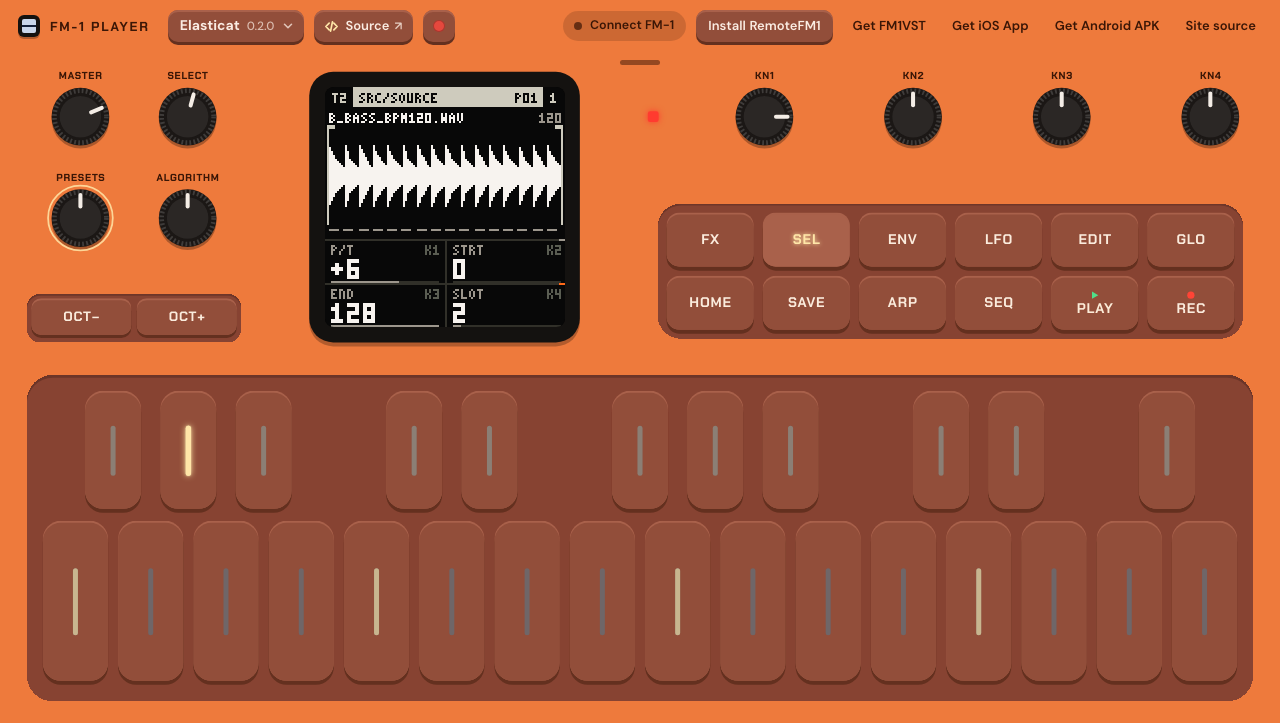
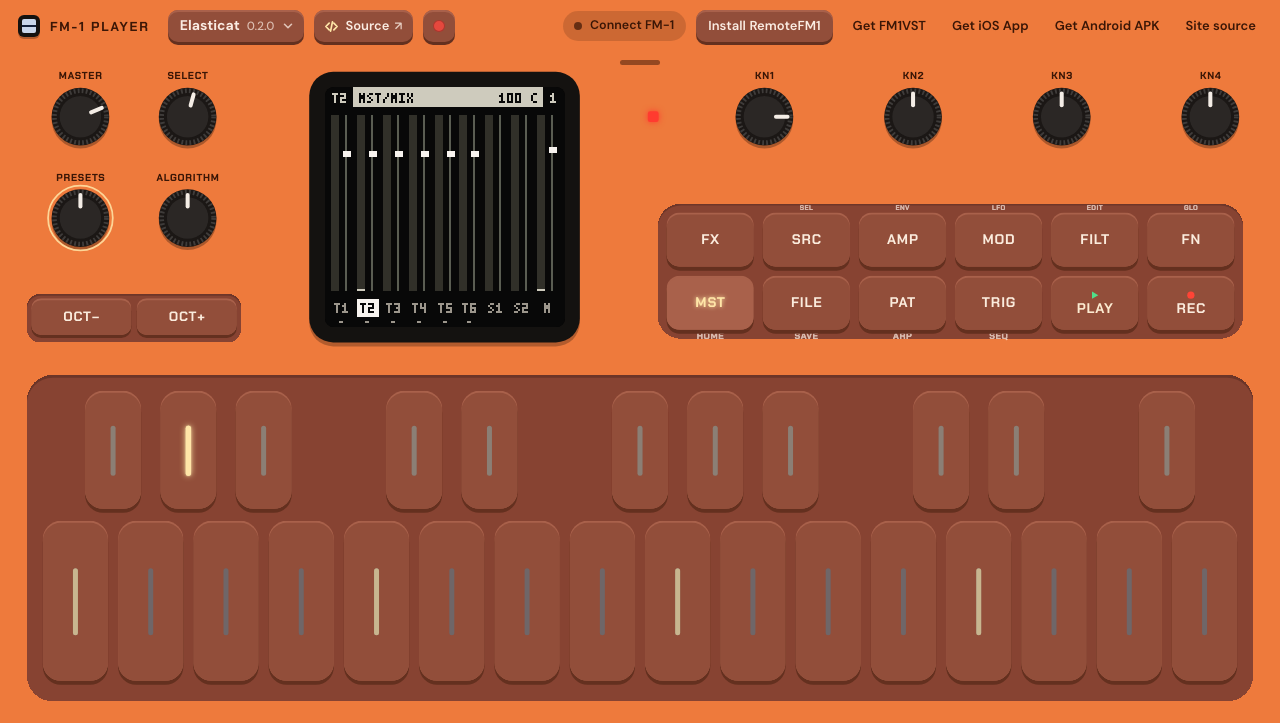
FN is GLO, MST is HOME (owner); the buttons carry Elasticat's own names
The shift key moves from HOME to GLO and the MASTER category from GLO to HOME (EC_B_FN = EC_B_GLO). The
descriptor's button_names are Elasticat's (FX SRC AMP MOD FILT FN MST FILE PAT TRIG PLAY REC OCT- OCT+), so
RemoteFM1 hosts draw them on the panel. Demo scripts and the web e2e follow (14/14 passed).

diff --git a/src/app/ec_app.c b/src/app/ec_app.c
@@ -938,7 +938,7 @@ static void upper_up(int i)
 }
 
 /* ------------------------------------------------------------------------------------------- buttons --- */
-static const int CAT_OF[EC_NB] = {EC_CAT_FX, EC_CAT_SRC, EC_CAT_AMP, EC_CAT_MOD, EC_CAT_FILT, EC_CAT_MASTER, -1,
+static const int CAT_OF[EC_NB] = {EC_CAT_FX, EC_CAT_SRC, EC_CAT_AMP, EC_CAT_MOD, EC_CAT_FILT, -1, EC_CAT_MASTER,
                                   EC_CAT_FILE, EC_CAT_PAT, EC_CAT_TRIG, -1, -1, -1, -1};
 
 static void button_down(int b)
@@ -955,7 +955,7 @@ static void button_down(int b)
         return;
     }
     switch (b) {
-    case EC_B_HOME: A->fn = 1; break;
+    case EC_B_FN: A->fn = 1; break;
     case EC_B_SEL:
         A->sel_held = 1;
         A->sel_used = 0;
@@ -1006,7 +1006,7 @@ static void button_up(int b)
         A->redraw = 1;
         return;
     }
-    if (b == EC_B_HOME)
+    if (b == EC_B_FN)
         A->fn = 0;
     else if (b == EC_B_SEL) {
         A->sel_held = 0;
@@ -1275,7 +1275,7 @@ static void leds(void)
         if (CAT_OF[b] >= 0)
             ec_plat_led_button(b, CAT_OF[b] == A->cat ? (A->settings && blink(250) ? EC_LED_MID : EC_LED_LIT)
                                                       : EC_LED_FAINT);
-    ec_plat_led_button(EC_B_HOME, A->fn ? EC_LED_LIT : EC_LED_FAINT);
+    ec_plat_led_button(EC_B_FN, A->fn ? EC_LED_LIT : EC_LED_FAINT);
     ec_plat_led_button(EC_B_PLAY, A->seq.playing ? EC_LED_LIT : A->seq.paused ? (blink(400) ? EC_LED_MID : EC_LED_DIM)
                                                                               : EC_LED_DIM);
     ec_plat_led_play_green(A->seq.playing ? EC_LED_LIT : EC_LED_OFF);

diff --git a/src/plat/ec_plat.h b/src/plat/ec_plat.h
@@ -23,8 +23,8 @@ enum {
     EC_B_ENV,     /* AMP */
     EC_B_LFO,     /* MOD */
     EC_B_EDIT,    /* FILT */
-    EC_B_GLO,     /* MASTER */
-    EC_B_HOME,    /* FN (shift) */
+    EC_B_GLO,     /* FN (shift): EC_B_FN */
+    EC_B_HOME,    /* MASTER */
     EC_B_SAVE,    /* FILE */
     EC_B_ARP,     /* PAT */
     EC_B_SEQ,     /* TRIG */
@@ -34,6 +34,7 @@ enum {
     EC_B_OCTUP,   /* key mode + */
     EC_NB
 };
+#define EC_B_FN EC_B_GLO   /* the shift key (owner, 2026-11-02: GLO, not HOME) */
 /* ---- knobs by role (FM1P_E_* order); MASTER is the absolute pot (ec_input_t.master) ---- */
 enum { EC_E_SELECT, EC_E_ALGO, EC_E_PRESETS, EC_E_K1, EC_E_K2, EC_E_K3, EC_E_K4, EC_NE };
 

diff --git a/src/app/ec_e5.c b/src/app/ec_e5.c
@@ -492,10 +492,10 @@ static int scope_op(int b)
 /* ------------------------------------------------------------------------------------------- buttons --- */
 int ec_e5_button_down(int b)
 {
-    if (b != EC_B_HOME)
+    if (b != EC_B_FN)
         E->home_clean = 0;
     if (E->naming) {
-        if (b == EC_B_HOME) {
+        if (b == EC_B_FN) {
             E->home_clean = 1;
             return 0;
         }
@@ -541,7 +541,7 @@ int ec_e5_button_down(int b)
 
 int ec_e5_button_up(int b)
 {
-    if (b == EC_B_HOME && E->naming && E->home_clean) {
+    if (b == EC_B_FN && E->naming && E->home_clean) {
         E->home_clean = 0;
         name_close(0);
         return 0;

diff --git a/src/plat/ec_core.c b/src/plat/ec_core.c
@@ -362,8 +362,8 @@ static fm1core_t CORE = {
     .license = FM1CORE_LICENSE,
     .gated = EC_GATED,
     .flash_size = EC_FLASH_SIZE,
-    /* the printed labels: Elasticat's own names are in ec_plat.h (FX, SRC, AMP, MOD, FILT, MST, FN, FILE, PAT, TRIG) */
-    .button_names = {"FX", "SEL", "ENV", "LFO", "EDIT", "GLO", "HOME", "SAVE", "ARP", "SEQ", "PLAY", "REC", "OCT-",
+    /* Elasticat's own names (hosts draw them on the panel, the printed name beside a renamed button) */
+    .button_names = {"FX", "SRC", "AMP", "MOD", "FILT", "FN", "MST", "FILE", "PAT", "TRIG", "PLAY", "REC", "OCT-",
                      "OCT+"},
     .params = NULL,
     .nparams = 0,

diff --git a/docs/FM1-CONTROLS.md b/docs/FM1-CONTROLS.md
@@ -1,7 +1,7 @@
 # Elasticat on the FM-1: controls (0.2.0)
 
 The FM-1 is the panel; the sound runs in the RemoteFM1 host. Samples come from your `RemoteFM1/audio/` folder.
-**FN** is the HOME button (hold it). Six tracks **T1-T6**, each with its own sample, machine, warp mode, filter, amp,
+**FN** is the GLO button (hold it). Six tracks **T1-T6**, each with its own sample, machine, warp mode, filter, amp,
 insert FX, sends, MOD and 16-step pages; two send buses **S1**, **S2** and the master insert **MST**; 16 patterns; two
 scenes **A / B** with a crossfader. A new project loads the first file in `/audio` onto T1.
 
@@ -28,7 +28,7 @@ slice's own lock (see Slices). Hold scene A or B + turn = that param into the sc
 | ENV | AMP: envelope, VOL, PAN | - | setup: env mode, env range, portamento, slice hold |
 | FX | FX: the insert machine's params (a picture per machine) / SENDS: S1, S2 levels, TAP. On S1 / S2 / MST: that bus's machine | next page | setup: **the FX machine** (insert, or the selected bus's), send tap |
 | LFO | MOD: LFO 1 / LFO 2 / MOD ENV / VELOCITY / MACROS / MACRO 1-4 (value + depth to PTCH CUT RES AMP PAN) | next page | - |
-| GLO | MASTER: MIX (meters + faders) / MASTER (BPM, swing, global length, playhead return) / SCENE | next page | setup: RTN, BPM, GBPM, NAME |
+| HOME | MASTER: MIX (meters + faders) / MASTER (BPM, swing, global length, playhead return) / SCENE | next page | setup: RTN, BPM, GBPM, NAME |
 | SAVE | FILE: page 1 SAMPLE (the browser) | **SAMPLE: loads the file under the cursor** into the track's slot; when the cursor is already on the track's file: page 2 **RAZOR**. RAZOR: back to SAMPLE | **UNDO** |
 | ARP | PAT: length, rate, global length, change mode | - | setup |
 | PLAY | Play / pause (resume keeps the position). With a scope held = **CLEAR** | | **stop + back to step 1** (twice: all voices off). With a scope held = **PASTE** |
@@ -144,7 +144,7 @@ p-lock; DEST, WAVE and MODE do not (as the original).
 ## Scenes and the crossfader
 
 Two scenes, A and B, each a sparse set of param values for every track and the three buses; the fader morphs between
-them. **MST > SCENE** (GLO, page 3) is the overview: the fader with its six glide positions and where a glide is
+them. **MST > SCENE** (HOME, page 3) is the overview: the fader with its six glide positions and where a glide is
 heading, and the params that morph (track or bus, label, both ends, where the morph is now); **KN1 = XFD**, the fader
 as a direct 0..128 knob. The scene row is on the lower keys in the SCENE key mode (a strip with the fader sits over
 the page) and always on MST > SCENE: lower keys 9-16 = A, six glide keys, B (the grid's row 5), mirrored on 1-8.
@@ -194,7 +194,7 @@ While an OCT key is held the screen and the lower keys show the pattern's pages.
 | FN + OCT- | **Recall** it, also while playing (the pattern restarts at step 1; only changed samples reload). OCT- lights with FN once something is memorized |
 | FN + SAVE | **Undo** the last change, 16 deep, per gesture (a knob turn, a fader glide, a step tap, a lock, a paste or a page clear); a pause of a second starts a new gesture |
 | PATN overlay open + SAVE | **Name the pattern** |
-| GLO setup NAME (turn) | **Name the project** |
+| MST setup NAME (turn) | **Name the project** |
 | Naming screen | KN1 / SELECT the place, KN2 the character, KN3 a random name, KN4 left = delete, right = insert a space; **SAVE** keeps it, a tap of FN cancels |
 
 ## Slices and patterns
@@ -205,7 +205,7 @@ While an OCT key is held the screen and the lower keys show the pattern's pages.
 - A slice has two homes: the **razor table** (per track, every pattern: range, PLAY, CHOK, P/T, mute) and the
   **pattern's slice program** (locks, CHOK, SMUT). A slice is silent when either mutes it; the pattern's choke group
   wins, else the razor table's.
-- BPM is **per pattern**: a pattern switch brings its BPM. GLO setup **GBPM ON** = one BPM for all patterns.
+- BPM is **per pattern**: a pattern switch brings its BPM. MST setup **GBPM ON** = one BPM for all patterns.
 
 ## LEDs
 

diff --git a/PLAN.md b/PLAN.md
@@ -55,8 +55,8 @@ states. A missing sample shows "missing: /audio/x.wav" and plays on.
 ## Panel mapping (from the mockup)
 
 - **MASTER pot**: master volume. **SELECT**: page. **PRESETS knob**: pattern. **ALGORITHM knob**: track.
-  **KN1-KN4**: the page's cells 1-4 (cells 5-8 with HOME/FN held).
-- **Buttons**: FX→FX · SEL→SRC · ENV→AMP · LFO→MOD · EDIT→FILT · GLO→MASTER · HOME→FN (shift) · SAVE→FILE ·
+  **KN1-KN4**: the page's cells 1-4 (cells 5-8 with GLO/FN held).
+- **Buttons**: FX→FX · SEL→SRC · ENV→AMP · LFO→MOD · EDIT→FILT · GLO→FN (shift) · HOME→MASTER · SAVE→FILE ·
   ARP→PAT · SEQ→TRIG · PLAY→PLAY · REC→REC (reserved: copy/clear/paste scope key as in Elasticat). OCT-/OCT+: key
   mode.
 - **Upper keys (11)**: T1..T6, S1, S2, MST, FILL, PATN. LED: selected track bright, others dim by activity.
